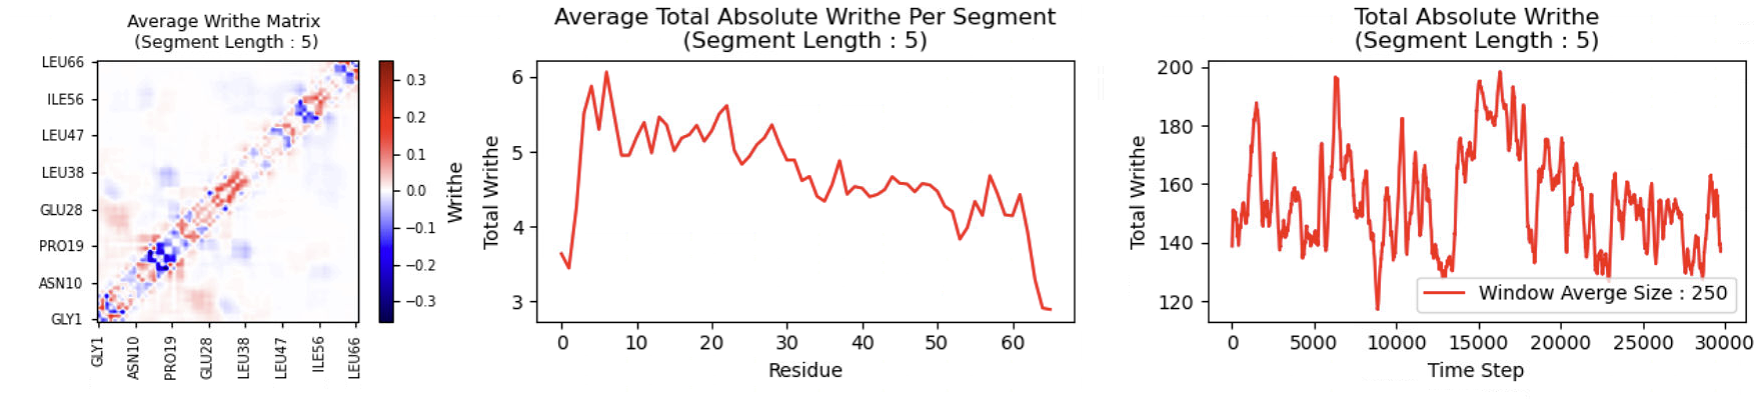
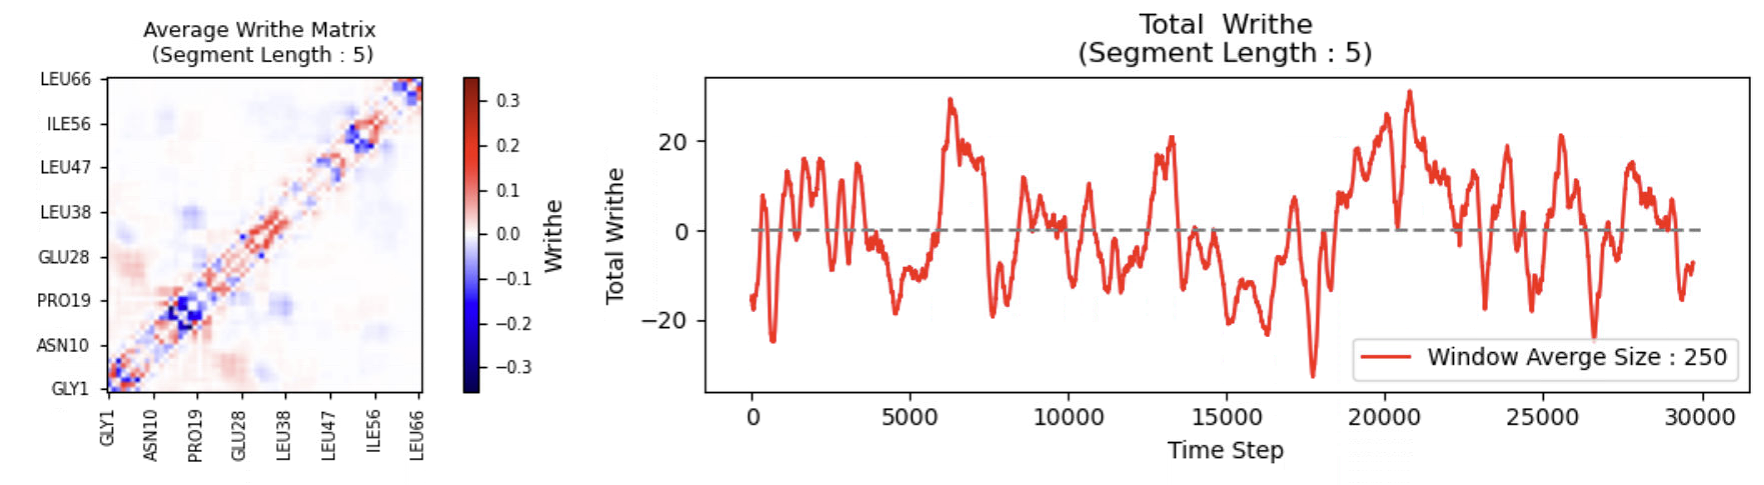
update

Changed region(s): [[0.0, 0.0, 0.9989, 0.9624], [0.3121, 0.8421, 0.6243, 0.9023], [0.437, 0.9023, 0.4994, 0.9624]]

diff --git a/src/writhe_tools/writhe.py b/src/writhe_tools/writhe.py
@@ -2,9 +2,7 @@
 __author__ = "Thomas.R.Sisk@DartmouthCollege"
 
 import os
-import ray
-import multiprocessing
-import functools
+
 import matplotlib.pyplot as plt
 import matplotlib
 import numpy as np
@@ -14,11 +12,13 @@ import logging
 import torch
 import math
 from joblib import Parallel, delayed
-from typing import Optional, Union, Tuple, List
+from typing import Optional, Union, List
 
 from .utils.indexing import split_list, get_segments
 from .utils.torch_utils import estimate_segment_batch_size, catch_cuda_oom
 from .writhe_nn import writhe_segments
+from .writhe_ray import writhe_segments_ray
+from.writhe_numba import writhe_segments_numba
 from .utils.filing import save_dict, load_dict
 from .utils.misc import to_numpy, Timer
 from .stats import window_average, mean
@@ -39,95 +39,22 @@ matplotlib.text._log.addFilter(MplFilter())
 # The more straight forward way of computing the writhe is implemented in writhe_nn,
 # this computation is written specifically for ray and should not be used otherwise
 
-def divnorm(x):
-    return x / np.linalg.norm(x, axis=-1, keepdims=True)
+def calc_writhe_parallel(xyz: np.ndarray,
+                        segments:np.ndarray,
+                        use_cross: bool = True,
+                        cpus_per_job=1,
+                        cpu_method: str="ray"):
 
+    assert cpu_method in ["ray", "numba"], "method should be 'ray' or 'numba'."
 
-def writhe_segment(segment=None,
-                   xyz=None,
-                   use_cross: bool = True):
-    """
-    Version of the writhe computation written specifically for CPU + ray parallelization.
-    See writhe_tools.writhe_nn.writhe_segments for cleaner implementation that is generally more efficient.
-    We use this version because ray manages memory and parallelization for large computations.
-
-    compute the writhe (signed crossing) of 2 segments for all frames (index 0) in xyz (xyz can contain just one frame)
-    **provide both of the following**
-    segment: numpy array of shape (4,) giving the indices of the 4 alpha carbons in xyz creating 2 segments:::
-             array([seg1_start_point,seg1_end_point,seg2_start_point,seg2_end_point])
-    xyz: numpy array of shape (Nframes, N_alpha_carbons, 3),coordinate array giving the positions of ALL the alpha carbons
-
-    """
-    xyz = xyz.unsqueeze(0) if xyz.ndim < 3 else xyz
-    # broadcasting trick
-    # negative sign, None placement and order are intentional, don't change without testing equivalent option
-    dx = divnorm((-xyz[:, segment[:2], None] + xyz[:, segment[None, 2:]]).reshape(-1, 4, 3))
-
-    # for the following, array broadcasting is (surprisingly) slower than list comprehensions
-    # when using ray!! (without ray, broadcasting is faster).
-    if use_cross:
-        theta = np.stack([divnorm(np.cross(dx[:, i], dx[:, j], axis=-1))
-                          for i, j in zip([0, 1, 3, 2], [1, 3, 2, 0])], axis=1)
-
-        theta = np.stack([np.arcsin((theta[:, i] * theta[:, j]).sum(-1).clip(-1, 1))
-                          for i, j in zip([0, 1, 2, 3], [1, 2, 3, 0])], axis=1).squeeze().sum(1)
-
-    else:
-        theta = np.stack([(dx[:, i] * dx[:, j]).sum(-1)
-                          for i, j in zip([0, 0, 0, 1, 1, 2],
-                                          [1, 2, 3, 2, 3, 3])], axis=-1)
-        # indices
-        u, v, h = [0, 4, 5, 1], \
-            [4, 5, 1, 0], \
-            [2, 3, 2, 3]
-
-        # surface area from scalars
-
-        theta = np.sum([np.arcsin(((theta[:, i] * theta[:, j] - theta[:, k])
-                                   / np.sqrt(abs(((1 - theta[:, i] ** 2) * (1 - theta[:, j] ** 2))).clip(1e-17))
-                                   ).clip(-1, 1)) for i, j, k in zip(u, v, h)], axis=0)
-
-    signs = np.sign(np.sum(dx[:, 0] * np.cross(xyz[:, segment[3]] - xyz[:, segment[2]],
-                                               xyz[:, segment[1]] - xyz[:, segment[0]], axis=-1),
-                           axis=-1)).squeeze()
-
-    wr = (theta * signs) / (2 * np.pi)
-
-    return wr
-
-
-# @ray.remote
-def writhe_segments_along_axis(segments: np.ndarray,
-                               xyz: np.ndarray,
-                               use_cross: bool = True,
-                               axis: int = 1):
-    """helper function for parallelization to compute writhe over chuncks of segments for all frames in xyz"""
-    # noinspection PyTypeChecker
-    return np.apply_along_axis(func1d=functools.partial(writhe_segment,
-                                                        xyz=xyz,
-                                                        use_cross=use_cross
-                                                        ),
-                               axis=axis, arr=segments)
-
-
-# Ray parallelization is substantially faster than python multiprocessing
-def calc_writhe_parallel(segments: np.ndarray,
-                         xyz: np.ndarray,
-                         use_cross: bool = True,
-                         cpus_per_job: int = 1) -> "Nframes by Nsegments np.ndarray":
-    """parallelize writhe calculation by segment, avoids making multiple copies of coordinate (xyz) matrix using Ray shared memory"""
-    # ray.init()
-
-    xyz_ref = ray.put(xyz)  # reference to coordinates that all child processes can access without copying
-    writhe_segments_along_axis_ref = ray.remote(writhe_segments_along_axis)
-    chunks = np.array_split(segments, int(multiprocessing.cpu_count() / cpus_per_job))
-    result = np.concatenate(ray.get([writhe_segments_along_axis_ref.remote(segments=chunk,
-                                                                           xyz=xyz_ref,
-                                                                           use_cross=use_cross)
-                                     for chunk in chunks])).T.squeeze()
-    ray.internal.free(xyz_ref)
-    ray.shutdown()
-    return result
+    if cpu_method == "ray":
+        return writhe_segments_ray(xyz=xyz,
+                                   segments=segments,
+                                   use_cross=use_cross,
+                                   cpus_per_job=cpus_per_job)
+    if cpu_method == "numba":
+        return writhe_segments_numba(xyz=xyz,
+                                     segments=segments)
 
 
 def writhe_batches_cuda(xyz: torch.Tensor,
@@ -145,8 +72,6 @@ def writhe_batches_cuda(xyz: torch.Tensor,
 
 
 # noinspection PyArgumentList
-
-
 @catch_cuda_oom
 def calc_writhe_parallel_cuda(xyz: torch.Tensor,
                               segments: torch.LongTensor,
@@ -154,7 +79,7 @@ def calc_writhe_parallel_cuda(xyz: torch.Tensor,
                               batch_size: int = None,
                               multi_proc: bool = True) -> np.ndarray:
 
-    batch_size = estimate_segment_batch_size(len(xyz)) if batch_size is None else batch_size
+    batch_size = estimate_segment_batch_size(xyz) if batch_size is None else batch_size
 
     if batch_size > len(segments):
         return writhe_batches_cuda(xyz, segments, use_cross=use_cross, device=0)
@@ -176,7 +101,8 @@ def calc_writhe_parallel_cuda(xyz: torch.Tensor,
 
 
 def to_writhe_matrix(writhe_features, n_points, length):
-    writhe_features = np.expand_dims(writhe_features, 0)
+    writhe_features = (np.expand_dims(writhe_features, 0) if writhe_features.ndim < 2
+                       else writhe_features)
     n = len(writhe_features)
     writhe_matrix = np.zeros([n] + [n_points - length] * 2)
 
@@ -237,7 +163,8 @@ class Writhe:
                         cuda: bool,
                         cuda_batch_size: int,
                         multi_proc: bool,
-                        use_cross: bool
+                        use_cross: bool,
+                        cpu_method: str = "ray"
                         ) -> np.ndarray:
         """
         Perform the writhe computation using either CPU or GPU parallelization.
@@ -253,6 +180,11 @@ class Writhe:
                               dot products (less accurate for very small angles, faster).
                               When using double precision, the dot product method should be virtualy indistinguishable from
                               the cross product version.
+            cpu_method (str) : cpu multiprocessing paradigm / framework - must be 'ray' or 'numba'
+                                'ray' if faster and is best for large jobs that use multiple resources
+                                'numba' is about an order of magnitude slower than ray.
+
+
 
         Returns:
             np.ndarray: Computed writhe features.
@@ -267,11 +199,15 @@ class Writhe:
         else:
             if cuda: print("You tried to use CUDA but it's not available according to torch, defaulting to CPUs.")
             if multi_proc:
-                return calc_writhe_parallel(segments=segments, xyz=xyz, cpus_per_job=cpus_per_job)
+                return calc_writhe_parallel(segments=segments,
+                                            xyz=xyz,
+                                            cpus_per_job=cpus_per_job,
+                                            cpu_method=cpu_method)
             else:
-                warnings.warn("You are not using any multiprocessing! "
-                              "Multiprocessing on CPU is managed by ray"
-                              "and avoids issues with memory overflow.")
+                warnings.warn("You are not using any multiprocessing or GPUs! "
+                              "Multiprocessing on CPU is managed by ray or numba."
+                              "ray handles big jobs best."
+                              ".... using torch broadcast calculation (returns numpy")
                 return writhe_segments(segments=torch.from_numpy(segments).long(),
                                        xyz=torch.from_numpy(xyz),
                                        use_cross=use_cross).numpy()
@@ -287,7 +223,8 @@ class Writhe:
                        cuda: bool = False,
                        cuda_batch_size: Optional[int] = None,
                        multi_proc: bool = True,
-                       use_cross: bool = True
+                       use_cross: bool = True,
+                       cpu_method: str = "ray"
                        ) -> Optional[dict]:
         """
         Compute writhe at the specified segment length.
@@ -325,9 +262,11 @@ class Writhe:
 
         if speed_test:
             with Timer():
-                _ = self.compute_writhe_(xyz, segments, cpus_per_job,
-                                         cuda, cuda_batch_size, multi_proc,
-                                         use_cross)
+                _ = self.compute_writhe_(xyz=xyz, segments=segments,
+                                         cpus_per_job=cpus_per_job,
+                                         cuda=cuda, cuda_batch_size=cuda_batch_size,
+                                         multi_proc=multi_proc, use_cross=use_cross,
+                                         cpu_method=cpu_method)
             return None
 
         results = dict(length=length,
@@ -335,9 +274,11 @@ class Writhe:
                        n=len(xyz),
                        )
 
-        results["writhe_features"] = self.compute_writhe_(xyz, segments, cpus_per_job,
-                                                          cuda, cuda_batch_size, multi_proc,
-                                                          use_cross)
+        results["writhe_features"] = self.compute_writhe_(xyz=xyz, segments=segments,
+                                                          cpus_per_job=cpus_per_job,
+                                                          cuda=cuda, cuda_batch_size=cuda_batch_size,
+                                                          multi_proc=multi_proc, use_cross=use_cross,
+                                                          cpu_method=cpu_method)
 
         results["segments"] = segments
 
@@ -428,7 +369,6 @@ class Writhe:
         return to_writhe_matrix(writhe_features, n_points, length)
 
     def plot_writhe_matrix(self,
-                           ave: bool = True,
                            index: Optional[Union[int, List[int], str, np.ndarray]] = None,
                            absolute: bool = False,
                            xlabel: Optional[str] = None,
@@ -448,7 +388,6 @@ class Writhe:
         or for a specific subset of frames. The matrix can be visualized with absolute values or as signed writhe.
 
         Args:
-            ave (bool, optional): If True, averages the writhe matrix across frames. Defaults to True.
             index (Optional[Union[int, List[int], str, np.ndarray]], optional): Frame index or indices to plot. Can be a single integer, list of integers, 'str', or numpy.ndarray. Defaults to None.
             absolute (bool, optional): If True, takes the absolute value of the writhe. Defaults to False.
             xlabel (Optional[str], optional): Label for the x-axis. Defaults to None.
@@ -481,7 +420,7 @@ class Writhe:
             norm = None
 
         # can't define norm until we know if it's a mean or not. if abs, then norm isn't needed
-        if (ave and (index is None)):
+        if index is None:
             mat = mean(mat, weights=weights)
             title = "Average Writhe Matrix"
         else:
@@ -561,11 +500,15 @@ class Writhe:
 
         pass
 
-    def plot_writhe_total(self, window: Optional[int] = None, ax: Optional[plt.Axes] = None) -> None:
+    def plot_writhe_total(self,
+                          absolute: Optional[bool] = False,
+                          window: Optional[int] = None,
+                          ax: Optional[plt.Axes] = None) -> None:
         """
         Plots the total absolute writhe across time steps.
 
         Args:
+            absolute Optional[bool], optional): Whether to take the absolute value of the writhe.
             window (Optional[int], optional): The size of the window for moving average smoothing. Defaults to None.
             ax (Optional[plt.Axes], optional): Matplotlib Axes object to plot on. If None, a new figure is created. Defaults to None.
 
@@ -575,7 +518,7 @@ class Writhe:
 
         self.check_data()
 
-        writhe_total = abs(self.writhe_features).sum(1)
+        writhe_total = np.sum((abs(self.writhe_features) if absolute else self.writhe_features), axis=1)
 
         if window is not None:
             data = window_average(x=writhe_total, N=window)
@@ -587,7 +530,7 @@ class Writhe:
         if ax is None:
             fig, ax = plt.subplots(1)
         ax.plot(data, color="red", label=legend)
-        ax.set_title("Total Absolute Writhe" + f"\n(Segment Length : {self.length})")
+        ax.set_title(f"Total {'Absolute' if absolute else ''} Writhe" + f"\n(Segment Length : {self.length})")
         ax.set_xlabel("Time Step")
         ax.set_ylabel("Total Writhe")
 
@@ -596,7 +539,7 @@ class Writhe:
         pass
 
     def plot_writhe_per_segment(self,
-                                ave: bool = True,
+                                absolute: Optional[bool] = False,
                                 index: Optional[Union[int, List[int], str, np.ndarray]] = None,
                                 xticks: Optional[List[str]] = None,
                                 label_stride: int = 5,
@@ -608,7 +551,7 @@ class Writhe:
         This method can either plot the average total writhe across frames, or plot the writhe for a specific frame (or set of frames).
 
         Args:
-            ave (bool, optional): If True, averages the writhe across frames. Defaults to True.
+            absolute (Optional[bool], optional): Whether or not to take the absolute value of the writhe.
             index (Optional[Union[int, List[int], str, np.ndarray]], optional): Frame index or indices to plot. Can be a single integer, list of integers, 'str', or numpy.ndarray. Defaults to None.
             xticks (Optional[List[str]], optional): List of tick labels for the x-axis. Defaults to None.
             label_stride (int, optional): Interval for displaying tick labels. Defaults to 5.
@@ -622,11 +565,11 @@ class Writhe:
             AssertionError: If `index` is not specified when `ave` is False.
         """
         self.check_data()
-        writhe_total = abs(self.matrix()).sum(1)
+        writhe_total = (abs(self.matrix()) if absolute else self.matrix()).sum(1)
 
-        if (ave and (index is None)):
+        if index is None:
             data = writhe_total.mean(0)
-            title = "Average Total Absolute Writhe Per Segment"
+            title = f"Average Total {'Absolute' if absolute else ''} Writhe Per Segment"
 
         else:
             assert index is not None, "If not plotting average, must specify index to plot"
@@ -634,7 +577,7 @@ class Writhe:
 
             if len(index) == 1:
                 data = writhe_total[index]
-                title = f"Total Absolute Writhe Per Segment: Frame {index}"
+                title = f"Total {'Absolute' if absolute else ''} Writhe Per Segment: Frame {index}"
             else:
                 data = writhe_total[index].mean(0)
                 if dscr is None:
@@ -643,9 +586,9 @@ class Writhe:
                                    " a description of the indices. "
                                    "Otherwise, the plotted data is ambiguous")
                                   )
-                    title = "Ensemble Averaged Total Absolute Writhe Per Segment"
+                    title = f"Ensemble Averaged Total {'Absolute' if absolute else ''} Writhe Per Segment"
                 else:
-                    title = f"Average Total Absolute Writhe Per Segment : {dscr}"
+                    title = f"Average Total {'Absolute' if absolute else ''} Writhe Per Segment : {dscr}"
 
         if ax is None:
             fig, ax = plt.subplots(1)

diff --git a/src/writhe_tools/plots.py b/src/writhe_tools/plots.py
@@ -288,7 +288,7 @@ def fes2d(x: np.ndarray,
           weights: np.ndarray = None,
           density: bool = False,
           extent: list = None,
-          n_contours: int = 7,
+          n_contours: int = 180,
           alpha_contours: float = 1,
           contour_lines: bool = False,
           alpha_lines: float = 0.6,
@@ -387,7 +387,7 @@ def fes2d(x: np.ndarray,
                   np.linspace(extent[1][0], extent[1][1], nyticks).round(tick_decimals))
 
     if cbar:
-        if contour_lines:
+        if contour_lines or n_contours < 8:
             cbar_ticks = s.levels[1:] - np.diff(s.levels) / 2
 
         else:

diff --git a/README.md b/README.md
@@ -75,8 +75,6 @@ We can then compute the writhe at a given segment length, save the result for la
 from the saved result to continue analysis or visualization.
 
 ```jupyterpython
-from writhe_tools.tcca import tCCA
-from writhe_tools.stats import pca
 # compute the writhe using segment length 1 and default arguments
 
 writhe.compute_writhe(length=1)
